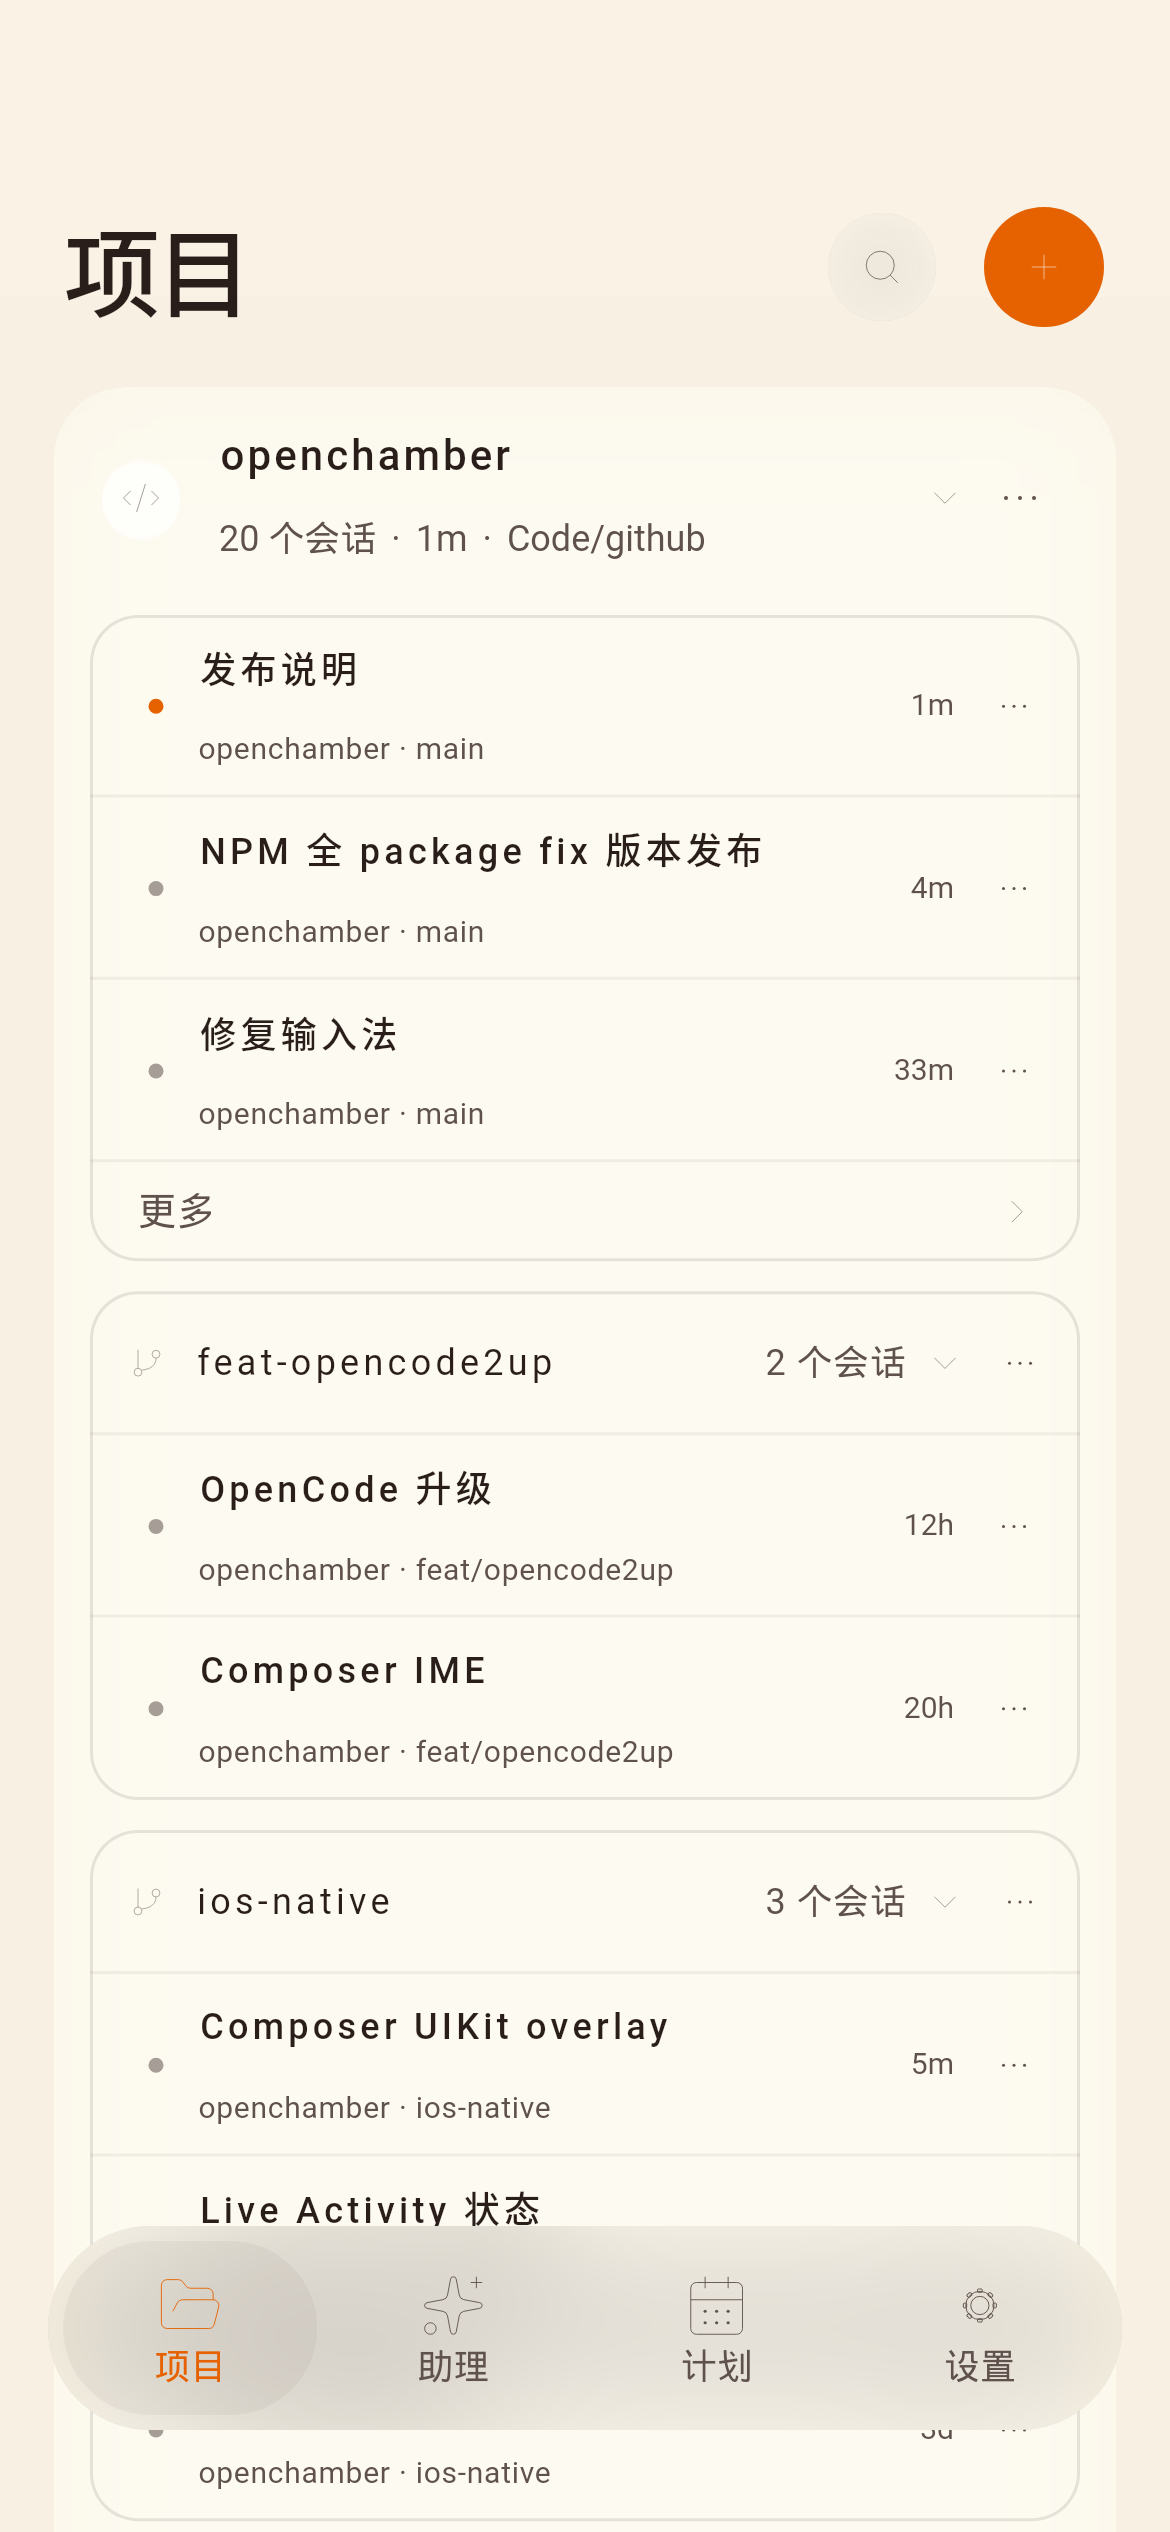
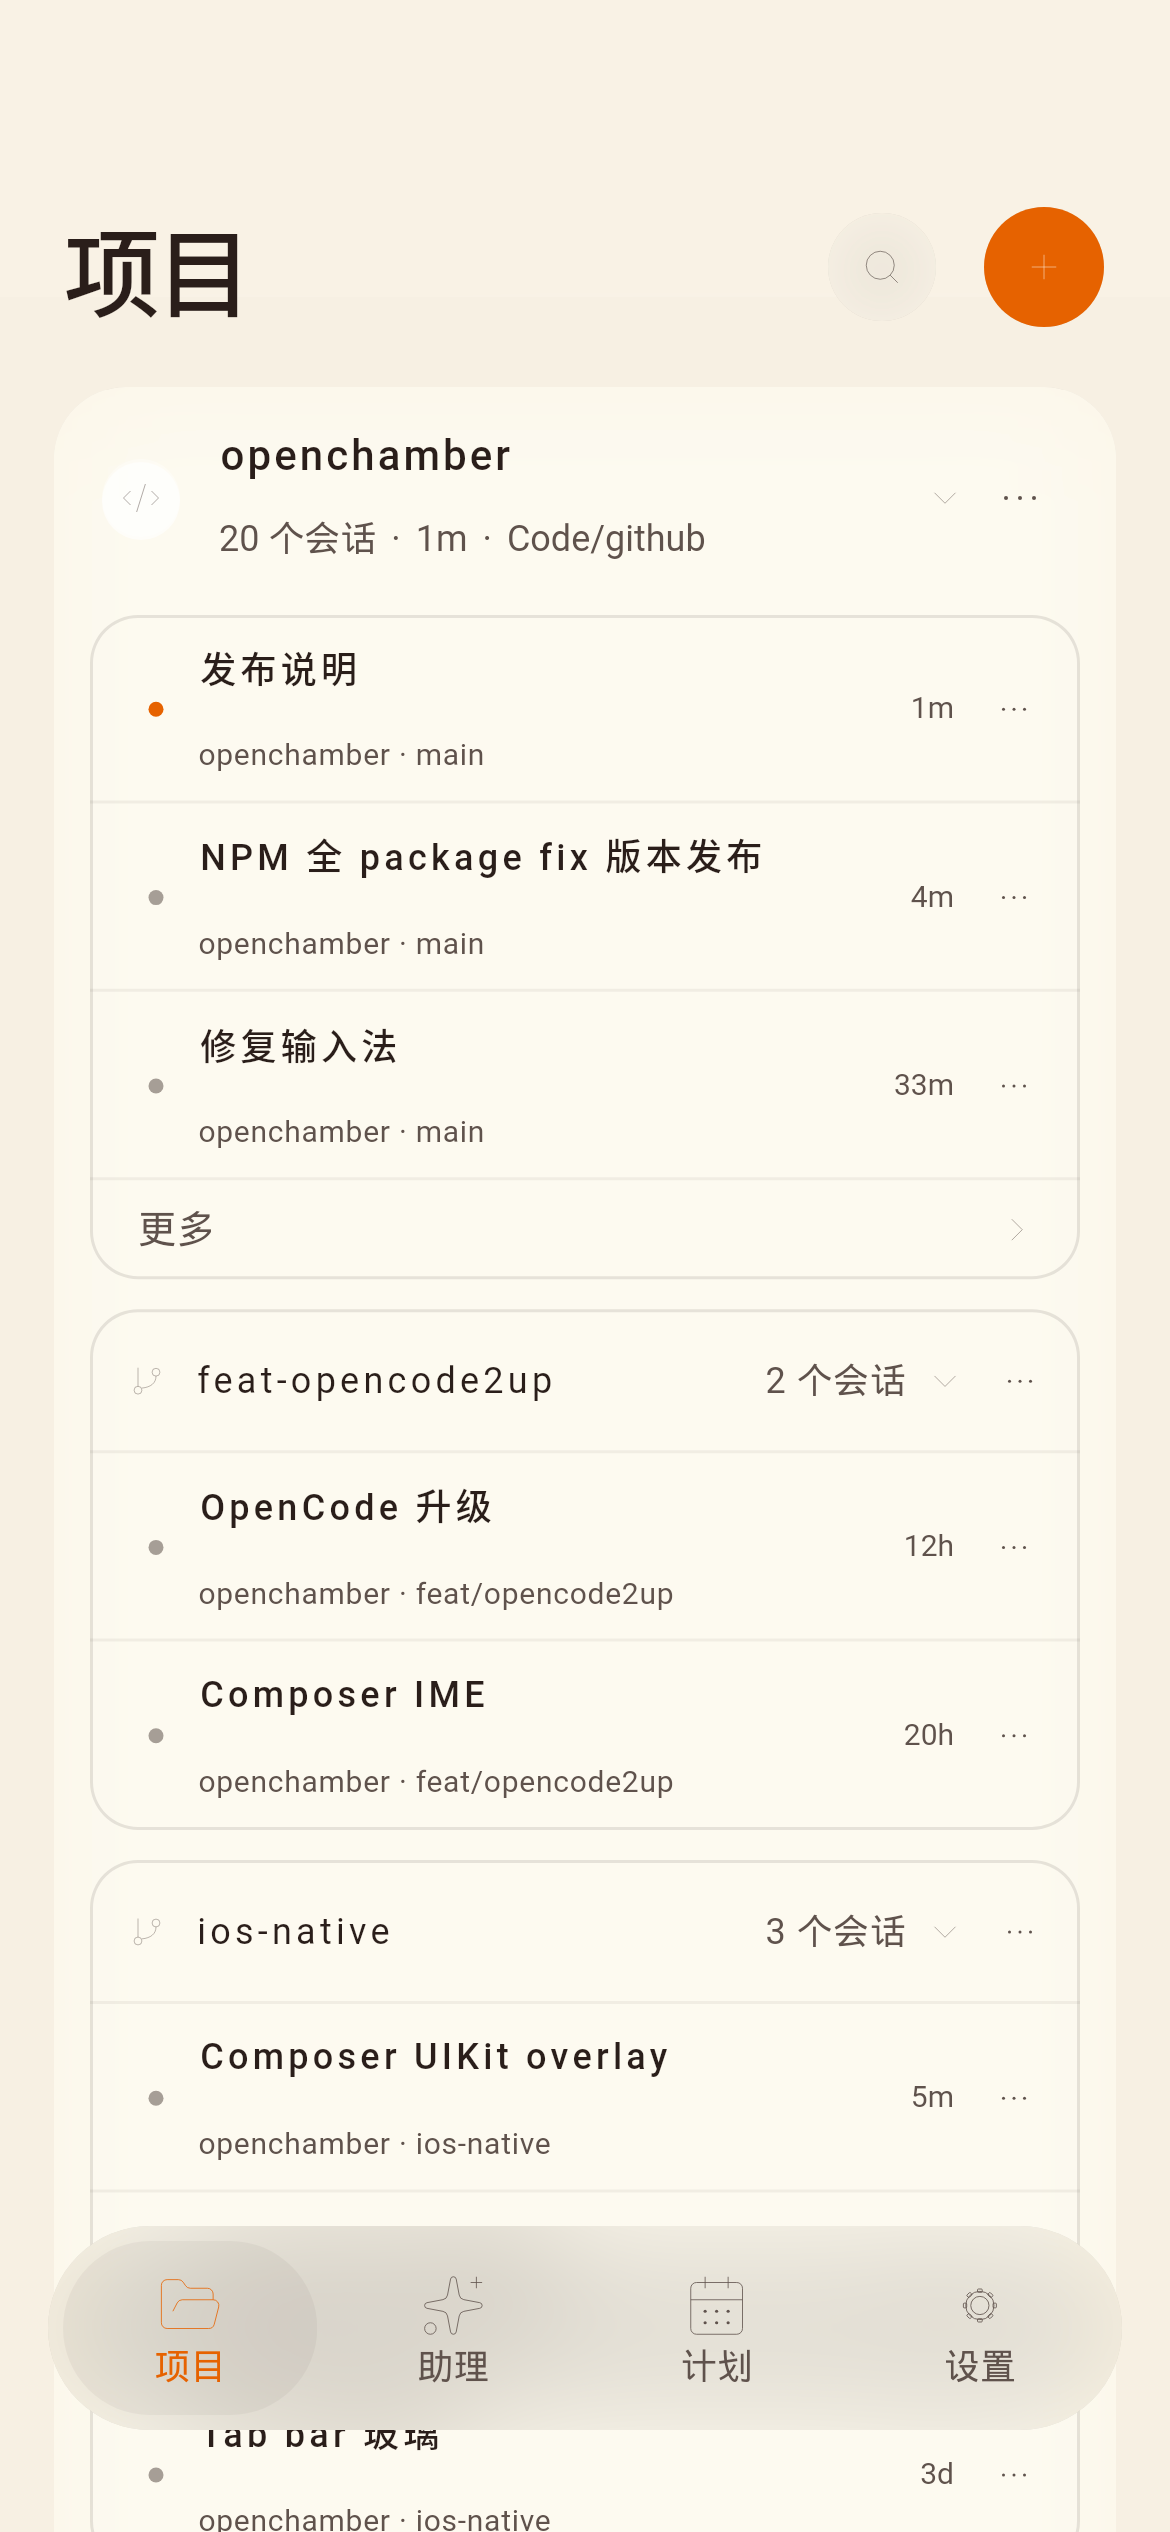
chore(flutter): recapture 02 after wake-1942 craft residual
02/scrolled/dark after title↔subtitle gap 6, dock stroke 0.28,
official-soft far 4%. 04 MAE ~0.03 restored. Not 精致.

diff --git a/docs/flutter-native-screenshots/README.md b/docs/flutter-native-screenshots/README.md
@@ -60,7 +60,8 @@ or revive Noto Bold. Title↔subtitle gap **4 → 6** (Medium still ate `mt-1`);
 row visual **60.8 → 62.8**. Dock/header visual stroke **0.32 → 0.28**
 (23px box stays). Far back to official-soft black **4% / tight 2.5%**
 (3%/2% read flat vs README lift; cream still cannot take official 10%).
-Recapture 02/04 after this dart.
+Recapture 02 family after this dart; 04 MAE stayed tester-noise (~0.03)
+so those frames were restored.
 **Not 精致.**
 
 | File | Screen |
